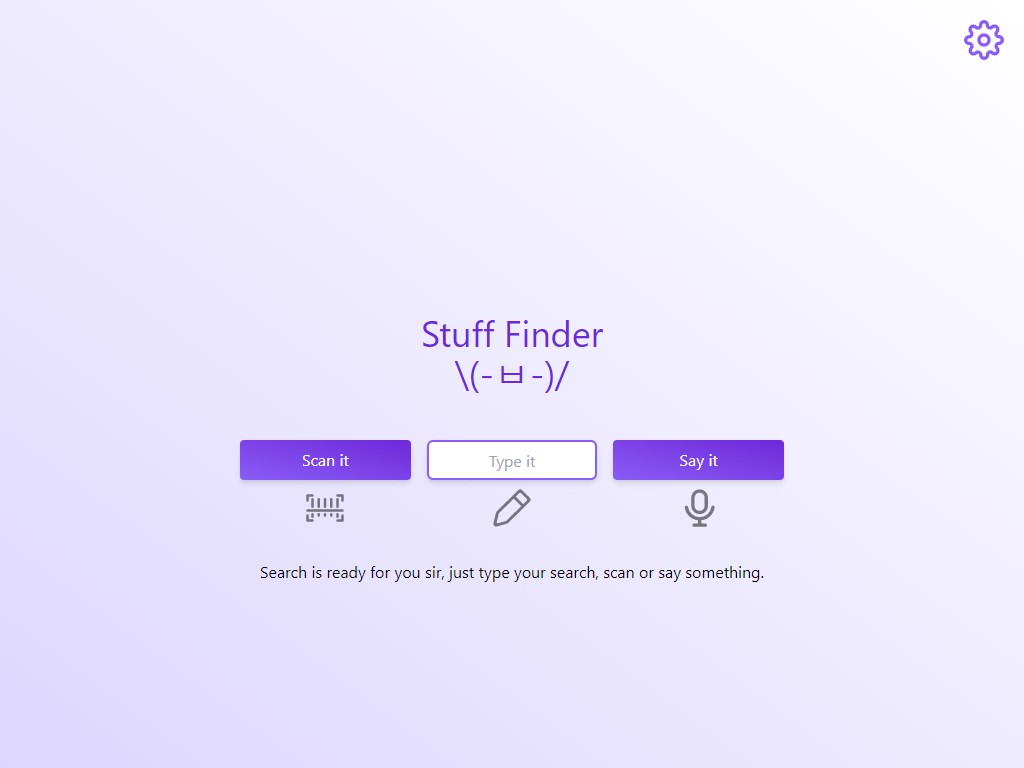
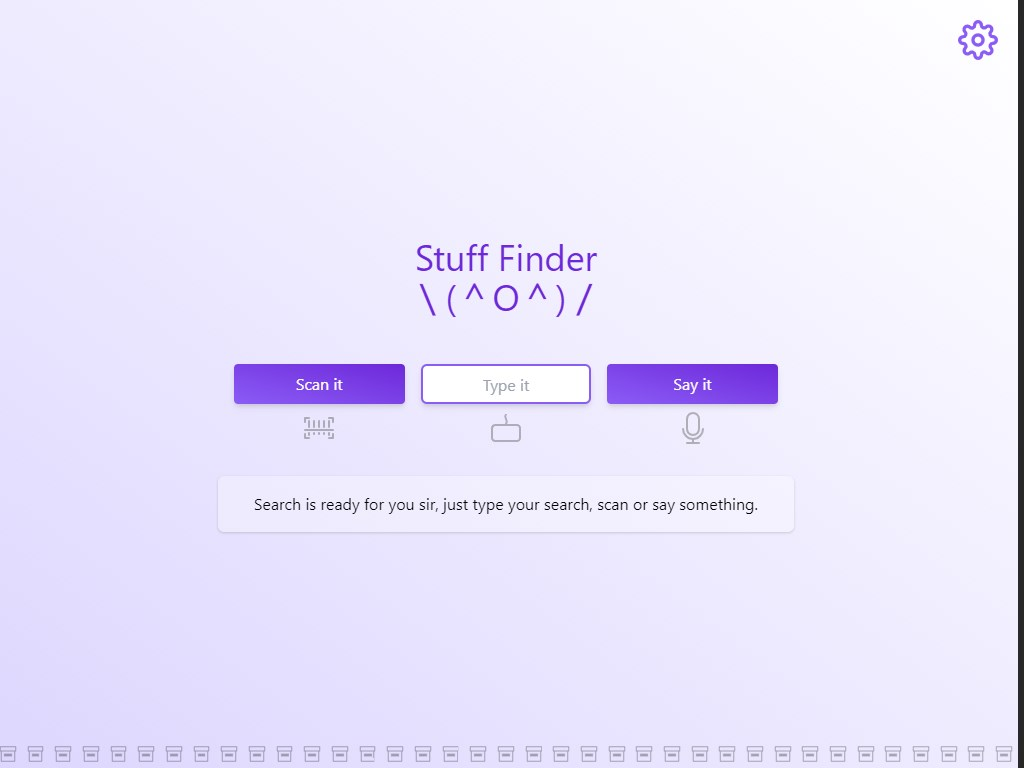
wip 3

Changed region(s): [[0.2188, 0.3125, 0.7812, 0.6875], [0.0, 0.0, 1.0, 1.0], [0.25, 0.7188, 0.75, 0.75]]

diff --git a/src/components/search-button.ts b/src/components/search-button.ts
@@ -3,32 +3,35 @@ import { SEARCH_ORIGIN } from '../constants.js'
 import { button } from '../utils'
 
 window.customElements.define('app-search-button', class extends HTMLElement {
-  search = dom('input', 'px-2 rounded-md shadow-md h-10 w-full border-2 border-purple-500')
-  scan = button('Scan it', 'h-10')
-  speech = button('Speech', 'h-10')
-  hint = p('text-center mt-8')
-  wrapper = div('app-search-button col mt2 ph1')
+  search = dom('input', 'search-button px-2 text-lg md:text-base rounded-md shadow-md hover:shadow-lg h-10 w-full border-2 border-purple-500')
+  scan = button('Scan it', 'search-button h-10')
+  speech = button('Speech', 'search-button h-10')
+  hint = p('text-center mt-8 p-4 rounded-md shadow text-lg md:text-base backdrop-filter backdrop-brightness-150 backdrop-opacity-30')
+  wrapper = div('app-search-button')
 
   onStatus (status) {
-    let label = ''
+    let speech = 'Say it'
     let hint = ''
     switch (status) {
     case 'listening':
-      label = pickOne(['👂 Listening to you', '👂 Give it to me', '👂 Tell me'])
+      speech = pickOne(['👂 Listening to you', '👂 Give it to me', '👂 Tell me'])
       hint = 'Say keywords about what you\'re looking for (ex. "tablet", "biking gloves")'
       break
     case 'ready':
-      label = 'Say it'
       hint = 'Search is ready for you sir, just type your search, scan or say something.'
       break
-    case 'no-match':
+    case 'settings-required':
+      hint = 'You need to configure this app to use it, please use the bouncing setting gear.'
+      break
     case 'failed':
-    default:
-      label = pickOne(['Retry', 'Try again'])
+      speech = pickOne(['Retry', 'Try again'])
       hint = 'Speech recognition has fail, just press the button to try again or use another method.'
       break
+    default:
+      console.error('un-expected status :', status)
+      hint = 'An un-expected case happen'
     }
-    this.speech.textContent = label
+    this.speech.textContent = speech
     this.hint.textContent = hint
   }
 
@@ -44,20 +47,20 @@ window.customElements.define('app-search-button', class extends HTMLElement {
   }
 
   createInputs () {
-    const row = div('grid px-4 md:grid-cols-3 gap-4 max-w-xl')
+    const row = div('grid px-4 md:grid-cols-3 gap-4 max-w-xl transition-opacity pointer-events-none opacity-50')
     const colA = div('grid gap-2')
     colA.append(this.scan)
     colA.append(image('icon', 'assets/scan.svg', 'scan'))
     row.append(colA)
     const colB = div('grid gap-2')
     colB.append(this.search)
-    colB.append(image('icon', 'assets/pen.svg', 'pen'))
+    colB.append(image('icon', 'assets/keyboard.svg', 'keyboard'))
     row.append(colB)
     const colC = div('grid gap-2')
     colC.append(this.speech)
     colC.append(image('icon', 'assets/mic.svg', 'mic'))
     row.append(colC)
-    row.append(dom('style', '', 'input[placeholder] { text-align: center; } .app-search-button .icon { height: 2.5rem; margin: auto; opacity: .5; }'))
+    row.append(dom('style', '', 'input.search-button[placeholder] { text-align: center; } .app-search-button .icon { width: 2rem; margin: auto; opacity: .5; transition: opacity .4s, filter .4s; filter: saturate(0); } .search-button:hover + img { opacity: .8; filter: saturate(1); }'))
     this.search.id = 'input-type'
     this.search.placeholder = 'Type it'
     this.search.addEventListener('change', () => {
@@ -71,11 +74,15 @@ window.customElements.define('app-search-button', class extends HTMLElement {
 
 
   connectedCallback () {
-    on('app-speech--status', status => this.onStatus(status))
-    this.wrapper.append(this.createInputs())
+    const inputs = this.createInputs()
+    this.wrapper.append(inputs)
     this.wrapper.append(this.hint)
-    this.onStatus('ready')
     this.parentNode.replaceChild(this.wrapper, this)
     this.handleFocusLessTyping()
+    on('app-status', status => this.onStatus(status))
+    on('items-ready', () => {
+      inputs.classList.remove('pointer-events-none')
+      inputs.classList.remove('opacity-50')
+    })
   }
 })

diff --git a/public/index.html b/public/index.html
@@ -29,55 +29,52 @@
   <app-settings-trigger></app-settings-trigger>
 
   <app-modal name="settings">
-    <div class="col ph1">
-      <app-form name="settings" title="Settings">
-        <label>
-          <a href="https://airtable.com/api" target="_blank" rel="noreferrer">Airtable api base</a>
-          <input name="base" placeholder="your api base" pattern="^app\w{14}$" required autofocus multi-paste>
-        </label>
-        <label>
-          <a href="https://airtable.com/account" target="_blank" rel="noreferrer">Airtable api key</a>
-          <input name="key" placeholder="your api key" pattern="^key\w{14}$" required maxlength="17">
-        </label>
-        <label>
-          Airtable table name
-          <input name="table" pattern="\S+" placeholder="your table name" required>
-        </label>
-        <label>
-          Airtable view name
-          <input name="view" pattern="\S+" placeholder="your table name" required value="stuff-finder">
-        </label>
+    <app-form name="settings" title="Settings" class="md:grid-cols-1">
+      <label>
+        <a href="https://airtable.com/api" target="_blank" rel="noreferrer">Airtable api base</a>
+        <input name="base" placeholder="your api base" pattern="^app\w{14}$" required autofocus multi-paste>
+      </label>
+      <label>
+        <a href="https://airtable.com/account" target="_blank" rel="noreferrer">Airtable api key</a>
+        <input name="key" placeholder="your api key" pattern="^key\w{14}$" required maxlength="17">
+      </label>
+      <label>
+        Airtable table name
+        <input name="table" pattern="\S+" placeholder="your table name" required>
+      </label>
+      <label>
+        Airtable view name
+        <input name="view" pattern="\S+" placeholder="your table name" required value="stuff-finder">
+      </label>
 
-        <details class="mb1 mt1 left">
-          <summary>What this app do with my credentials ?</summary>
-          <small>
-            <ul>
-              <li>fetch your Airtable data</li>
-              <li>store credentials locally in your browser</li>
-              <li>nothing else</li>
-            </ul>
-            Feel free to check this app source code on the <a href="https://github.com/Shuunen/stuff-finder" target="_blank" rel="noreferrer">Github
-              project
-              page</a>.
-          </small>
-        </details>
+      <details class="mt-2">
+        <summary>What this app do with my credentials ?</summary>
+        <small>
+          <ul class="mb-2 list-disc list-inside">
+            <li>fetch your Airtable data</li>
+            <li>store credentials locally in your browser</li>
+            <li>nothing else</li>
+          </ul>
+          Feel free to check this app source code on the <a href="https://github.com/Shuunen/stuff-finder" target="_blank" rel="noreferrer">Github
+            project page</a>.
+        </small>
+      </details>
 
-        <details class="mb1 left">
-          <summary>About this app</summary>
-          <small class="mt1">
-            This is an open source project from Shuunen, you can check the source code on the <a href="https://github.com/Shuunen/stuff-finder"
-              target="_blank" rel="noreferrer">Github
-              project
-              page</a>.
-            <br>
-            <span id="commit"></span>
-          </small>
-        </details>
+      <details>
+        <summary>About this app</summary>
+        <small>
+          This is an open source project from Shuunen, you can check the source code on the <a href="https://github.com/Shuunen/stuff-finder"
+            target="_blank" rel="noreferrer">Github
+            project page</a>.
+          <br>
+          <span id="commit"></span>
+        </small>
+      </details>
 
-
-      </app-form>
-    </div>
+    </app-form>
   </app-modal>
+
+  <footer class="absolute bottom-0 w-full bg-repeat-round h-7 opacity-30 hover:animate-bounce cursor-help" style="background-image: url(assets/box.svg);"></footer>
 
   <script src="index.js"></script>
 </body>

diff --git a/src/components/modal.ts b/src/components/modal.ts
@@ -1,23 +1,28 @@
 import { div, emit, h2, link, on } from 'shuutils'
 
 window.customElements.define('app-modal', class extends HTMLElement {
+  backdrop = div('backdrop opacity-0 pointer-events-none transition-opacity z-20 fixed bg-black bg-opacity-50 top-0 left-0 w-full h-full flex flex-col items-center justify-center align-middle')
   createModal (id: string) {
-    const modal = div(`${id} flex flex-col bg-white relative overflow-hidden rounded`, this.innerHTML)
-    const close = link('close absolute text-2xl font-mono top-2 right-5', 'x', '#')
+    const modal = div(`${id} flex flex-col m-4 p-4 bg-white relative overflow-x-hidden overscroll-y-auto rounded`, this.innerHTML)
+    const close = link('close absolute text-4xl md:text-2xl opacity-50 font-mono top-2 right-5', 'x', '#')
     modal.append(close)
-    if (this.dataset.title) modal.append(h2('header text-2xl my-2 text-center', this.dataset.title))
+    if (this.dataset.title) modal.append(h2('header text-2xl mb-4 leading-7 text-center', this.dataset.title))
     close.addEventListener('click', () => emit('app-modal--close'))
     modal.addEventListener('click', event => event.stopPropagation())
     return modal
   }
+  toggle (active: boolean) {
+    document.body.classList.toggle('overflow-hidden', active)
+    this.backdrop.classList.toggle('opacity-0', !active)
+    this.backdrop.classList.toggle('pointer-events-none', !active)
+  }
   connectedCallback () {
     const id = `app-modal--${this.getAttribute('name')}`
-    const wrapper = div('backdrop hidden z-20 fixed bg-black bg-opacity-50 top-0 left-0 w-full h-full flex flex-col items-center justify-center align-middle')
-    wrapper.addEventListener('click', () => emit('app-modal--close'))
-    on(`${id}--open`, () => wrapper.classList.remove('hidden'))
-    on('app-modal--close', () => emit('fade-out', wrapper))
-    wrapper.append(this.createModal(id))
-    this.parentNode.replaceChild(wrapper, this)
+    on(`${id}--open`, () => this.toggle(true))
+    on('app-modal--close', () => this.toggle(false))
+    this.backdrop.addEventListener('click', () => emit('app-modal--close'))
+    this.backdrop.append(this.createModal(id))
+    this.parentNode.replaceChild(this.backdrop, this)
     emit(`${id}--ready`)
   }
 })

diff --git a/src/components/form.ts b/src/components/form.ts
@@ -16,10 +16,6 @@ class AppForm extends HTMLElement {
     return this.getAttribute('name')
   }
 
-  get columns () {
-    return this.getAttribute('columns') || '1fr'
-  }
-
   get title () {
     return this.getAttribute('title') === 'false' ? '' : this.getAttribute('title')
   }
@@ -70,15 +66,17 @@ class AppForm extends HTMLElement {
     this.els.error.textContent = message
   }
 
+  createClose () {
+    const element = button('Cancel', 'close', true)
+    element.addEventListener('click', () => emit(this.onCloseEventName))
+    return element
+  }
+
   createFooter () {
-    const row = div('row center mts mb1')
+    const row = div('flex justify-center mt-4')
     if (this.inline) row.classList.add('hidden')
-    else {
-      const close = button('&times; Cancel', 'close')
-      close.addEventListener('click', () => emit(this.onCloseEventName))
-      row.append(close)
-    }
-    const save = button('Save &check;', 'save ml1')
+    else row.append(this.createClose())
+    const save = button('Save', 'save ml-4')
     save.addEventListener('click', () => this.onSave())
     save.setAttribute('disabled', String(true))
     this.els.form.addEventListener('keyup', () => this.validate())
@@ -136,14 +134,14 @@ class AppForm extends HTMLElement {
     on(`${this._id}--error`, message => {
       this.error = message
     })
-    this.els.form = dom('form', `grid-cols-${this.columns}`, this.innerHTML)
+    this.els.form = dom('form', this.className + ' md:p-4', this.innerHTML)
     this.innerHTML = ''
     this.append(this.els.form)
     this.handleMultiPaste()
     this.els.error = p('error')
     this.els.form.parentElement.append(this.els.error)
     if (!this.inline) {
-      this.els.header = h2('header', this.title)
+      this.els.header = h2('header text-purple-700 text-2xl mt-2 mb-4 text-center', this.title)
       this.parentElement.prepend(this.els.header)
     }
     this.els.footer = this.createFooter()

diff --git a/src/index.ts b/src/index.ts
@@ -58,10 +58,13 @@ class App {
   settingsActionRequired (actionRequired, errorMessage = '') {
     emit('app-settings-trigger--animate', actionRequired)
     emit('app-form--settings--error', errorMessage)
+    emit('app-status', actionRequired ? 'settings-required' : 'ready')
+    this.isLoading(false)
     if (!actionRequired) emit('app-modal--close')
   }
 
   isLoading (active) {
+    console.log('isLoading active ?', active)
     emit('app-loader--toggle', active)
   }
 
@@ -76,7 +79,7 @@ class App {
     let records = response.records
     if (cachedItems.some(item => (item.id === records[0].id && item['updated-on'] === records[0].fields['updated-on']))) {
       this.items = cachedItems
-      this.showLog(`${this.items.length} item(s) cached ` + this.coolAscii())
+      console.log(`${this.items.length} item(s) cached ` + this.coolAscii())
       this.initFuse()
       return true
     }

diff --git a/src/utils.ts b/src/utils.ts
@@ -1,5 +1,6 @@
 import { dom } from 'shuutils'
 
-export const button = (content: string, classes = ''): HTMLButtonElement => {
-  return dom('button', `bg-gradient-to-tr from-purple-500 to-purple-700 shadow-md text-white rounded  transition-all duration-200 each-in-out hover:from-purple-700 hover:to-purple-900 px-4 py-2 ${classes}`, content)
+export const button = (content: string, classes = '', secondary = false): HTMLButtonElement => {
+  const theme = secondary ? 'hover:opacity-100 opacity-80' : 'from-purple-500 to-purple-700 text-white hover:from-purple-700 hover:to-purple-900'
+  return dom('button', `text-lg md:text-base bg-gradient-to-tr shadow-md hover:shadow-lg rounded transition-all duration-200 each-in-out px-6 py-2 ${theme} ${classes}`, content)
 }

diff --git a/src/styles.css b/src/styles.css
@@ -1,3 +1,31 @@
 @import "tailwindcss/base";
 @import "tailwindcss/components";
 @import "tailwindcss/utilities";
+
+form {
+  @apply grid gap-2;
+}
+
+form label {
+  @apply grid items-center overflow-hidden text-left align-middle md:gap-4 md:grid-cols-2 whitespace-nowrap overflow-ellipsis;
+}
+
+form label input {
+  @apply p-2 mt-1 mb-1 border border-purple-300 rounded md:mt-0 md:mb-0 h-9;
+}
+
+button:disabled {
+  @apply opacity-50 cursor-not-allowed grayscale;
+}
+
+select:invalid[required], input:invalid[required] {
+  @apply bg-red-100 border border-red-400;
+}
+
+details summary {
+  @apply transition-colors cursor-pointer hover:text-purple-700;
+}
+
+details small {
+  @apply block mt-2 ml-4;
+}

diff --git a/src/components/prompter.ts b/src/components/prompter.ts
@@ -1,10 +1,12 @@
 import { type } from '@camwiegert/typical'
-import { h1, on } from 'shuutils'
+import { div, h1, on } from 'shuutils'
 
 window.customElements.define('app-prompter', class extends HTMLElement {
   connectedCallback () {
-    const prompter = h1('highlight text-3xl md:text-4xl whitespace-pre text-center text-purple-700 md:mt-32 mb-12')
+    const wrapper = div('h-32')
+    const prompter = h1('highlight text-4xl whitespace-pre text-center text-purple-700 mb-12')
+    wrapper.append(prompter)
     on('app-prompter--type', options => type(prompter, ...options))
-    this.parentNode.replaceChild(prompter, this)
+    this.parentNode.replaceChild(wrapper, this)
   }
 })

diff --git a/src/components/print-barcodes.js b/src/components/print-barcodes.js
@@ -22,7 +22,7 @@ class AppPrintBarcodes extends HTMLElement {
     <div class="list ph1">
       ${this.barcodes.map(b => `<div class=row>
         <input type=checkbox id="${b.id}" data-action="select-one">
-        <app-form name="${b.id}" inline=true title=false on-save="app-update--item" columns="4fr 3fr 2fr 2fr 1fr 1fr">
+        <app-form name="${b.id}" inline=true title=false on-save="app-update--item" class="bg-red-300">
           <input type=hidden name=id value="${b.id}" />
           <input name=name placeholder=Name required minlength=3 maxlength=50 autofocus value="${b.name}">
           <input name=details placeholder=Details value="${b.details}">

diff --git a/src/components/settings-trigger.ts b/src/components/settings-trigger.ts
@@ -9,7 +9,10 @@ window.customElements.define('app-settings-trigger', class extends HTMLElement {
     return wrapper
   }
   connectedCallback () {
-    on('app-settings-trigger--animate', active => this.wrapper.classList.toggle('animate', active))
+    on('app-settings-trigger--animate', active => {
+      this.wrapper.classList.toggle('animate-bounce', active)
+      if(active) emit('app-modal--settings--open')
+    })
     this.wrapper = this.createWrapper()
     this.parentNode.replaceChild(this.wrapper, this)
   }

diff --git a/src/components/search-result.js b/src/components/search-result.js
@@ -71,7 +71,6 @@ class AppSearchResult extends HTMLElement {
     const form = dom('app-form', formName, this.formContent)
     this.els.form = form
     form.setAttribute('name', formName)
-    form.setAttribute('columns', (this.hasImage ? '1fr ' : '') + '2fr 1fr')
     form.setAttribute('title', false)
     form.setAttribute('on-close', this.formCloseEvent)
     form.setAttribute('on-save', this.formSaveEvent)

diff --git a/src/components/scan-code.ts b/src/components/scan-code.ts
@@ -6,7 +6,7 @@ import { SEARCH_ORIGIN } from '../constants.js'
 window.customElements.define('app-scan-code', class extends HTMLElement {
   device = ''
   reader: BrowserMultiFormatReader
-  video = dom('video')
+  video = dom('video', 'rounded-lg')
 
   onResult (code) {
     console.log('found qr or barcode :', code)
